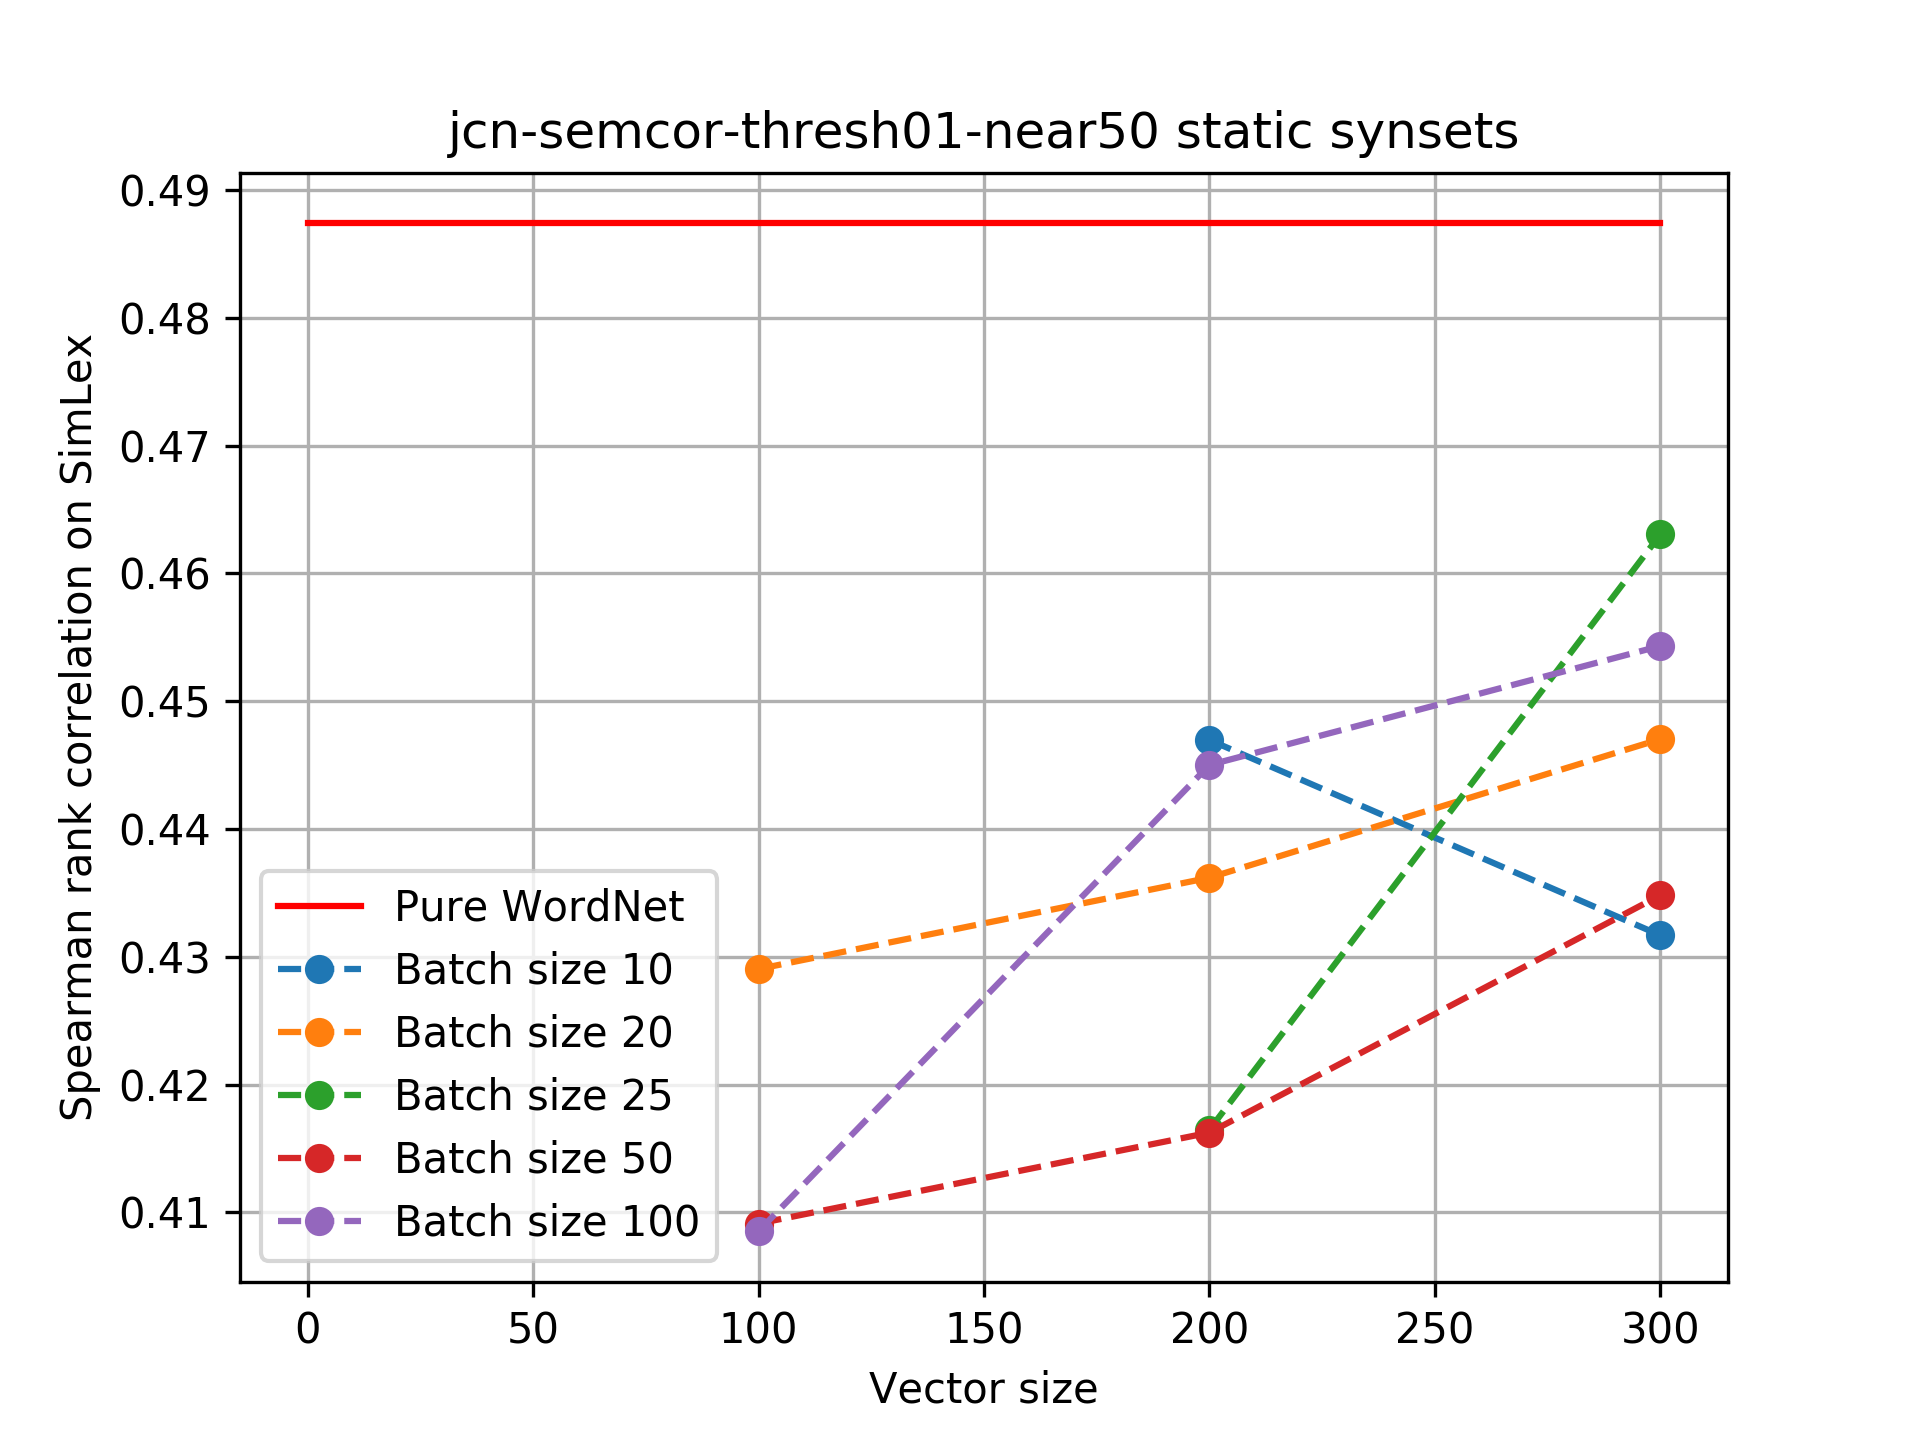
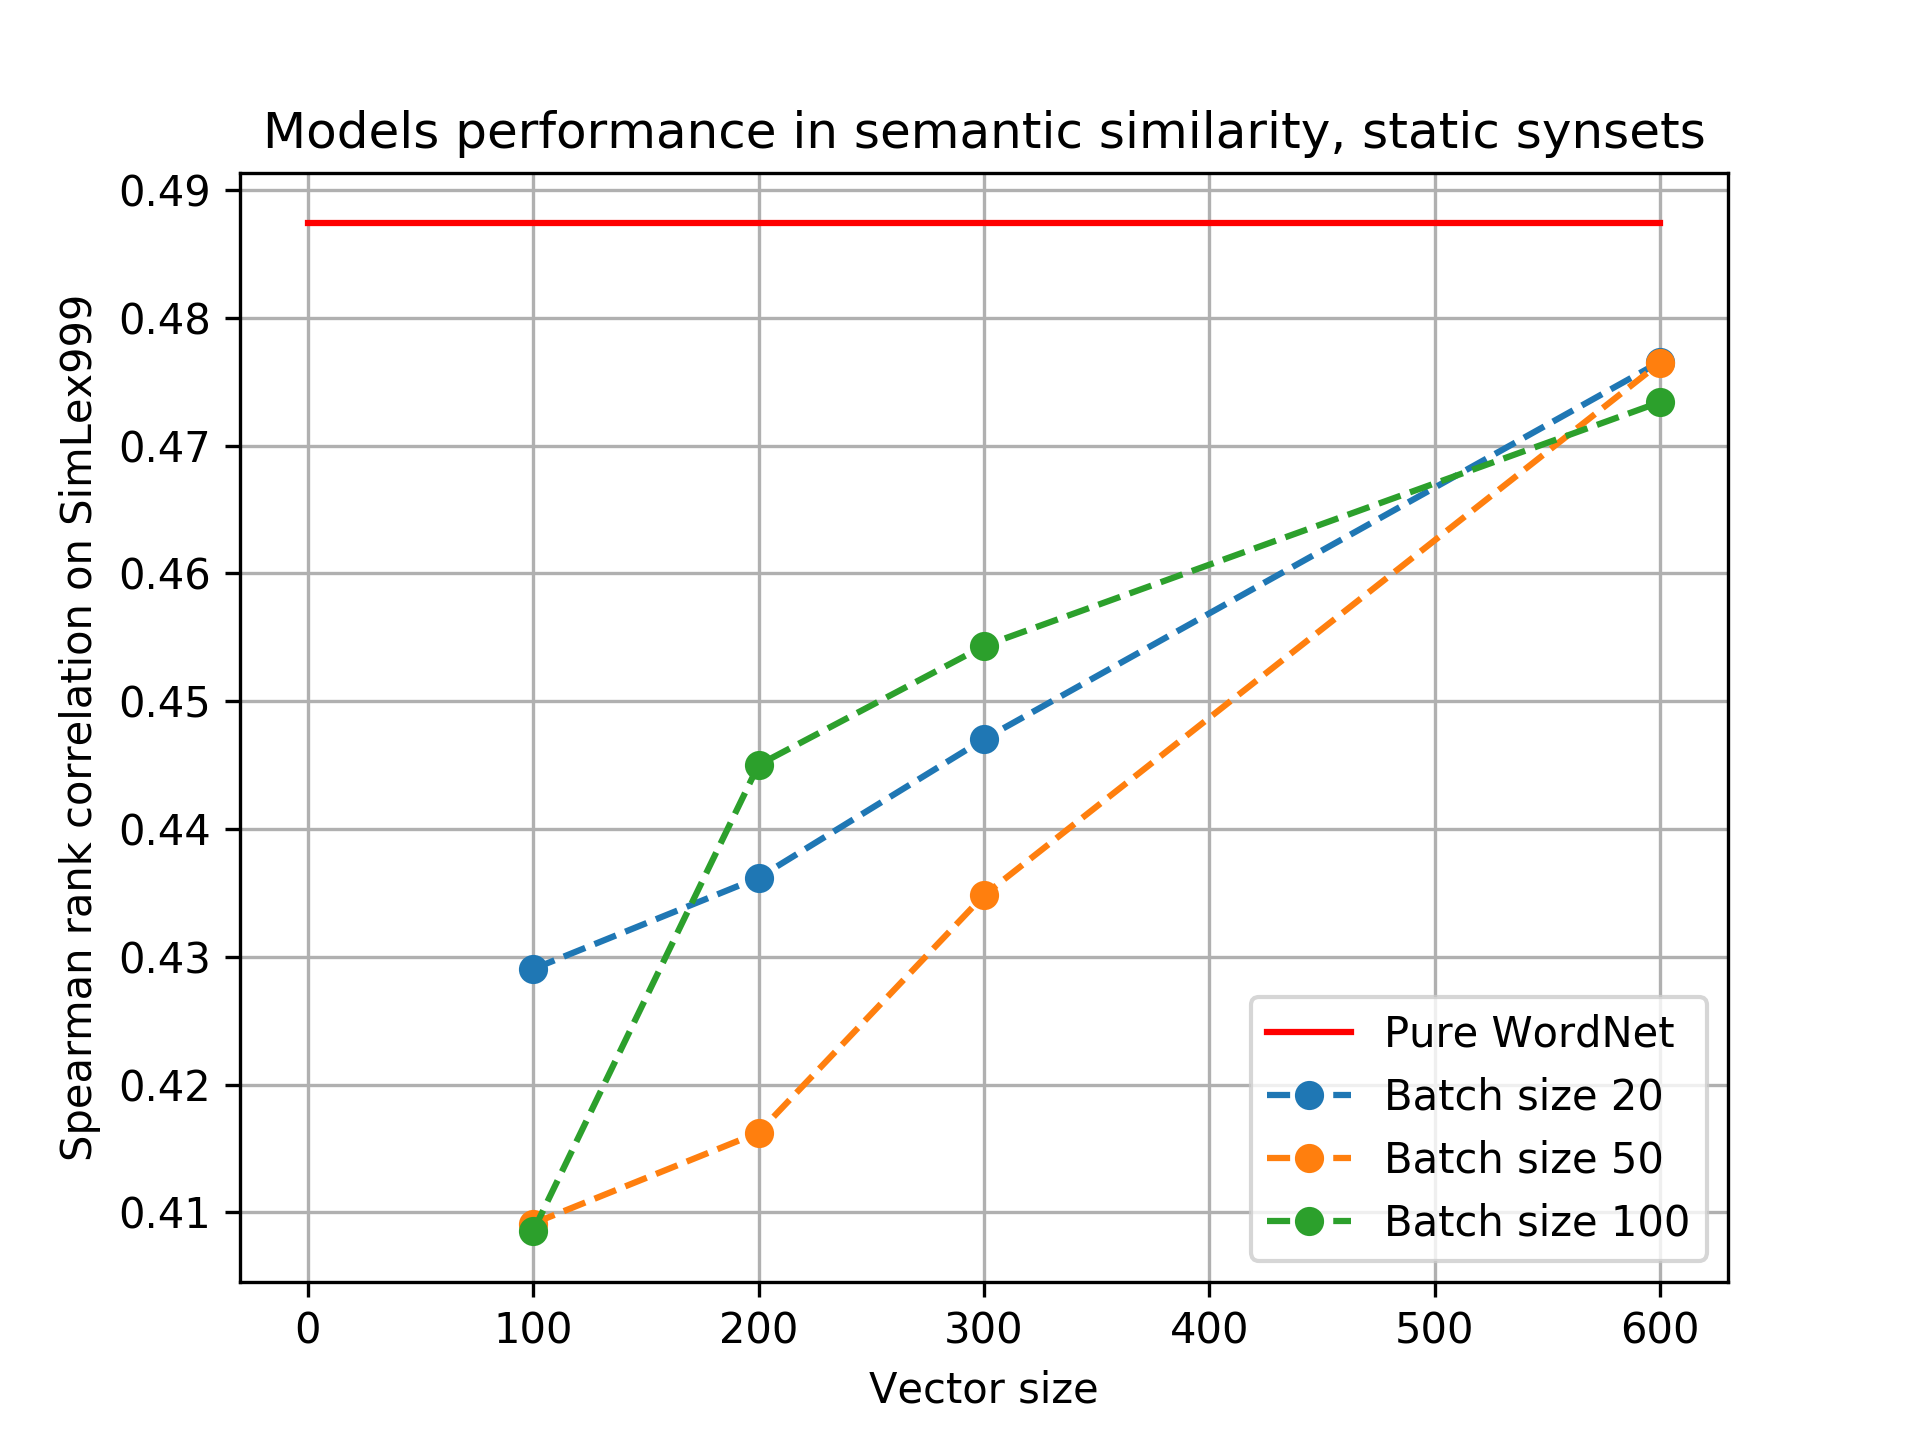
600-D plots

diff --git a/results/draw.py b/results/draw.py
@@ -20,7 +20,7 @@ for line in sys.stdin:
     (corpus, vsize, bsize, lrate, wordnet, human, dynamic_human) = res
     if lrate != '0.005':
         continue
-    if float(bsize) < 10 or float(bsize) > 400:
+    if float(bsize) < 20 or float(bsize) > 400 or float(bsize) == 25:
         continue
     lrates.append(lrate)
     vsize = float(vsize)
@@ -56,10 +56,10 @@ for batch in sorted(diff_bsizes):
     y = human_scores[batchsizes == batch]
     plt.plot(x, y, linestyle='dashed', marker='o', label='Batch size '+str(int(batch)))
 plt.xlabel('Vector size')
-plt.ylabel('Spearman rank correlation on SimLex')
+plt.ylabel('Spearman rank correlation on SimLex999')
 plt.legend(loc='best')
 plt.grid(True)
-plt.title(corpus+' static synsets')
+plt.title('Models performance in semantic similarity, static synsets')
 # plt.show()
 plt.savefig(corpus+'_static_synsets.png', dpi=300)
 plt.close()
@@ -72,10 +72,10 @@ for batch in sorted(diff_bsizes):
     y = dhuman_scores[batchsizes == batch]
     plt.plot(x, y, linestyle='dashed', marker='o', label='Batch size '+str(int(batch)))
 plt.xlabel('Vector size')
-plt.ylabel('Spearman rank correlation on SimLex (dynamic synset selection)')
+plt.ylabel('Spearman rank correlation on SimLex999')
 plt.legend(loc='best')
 plt.grid(True)
-plt.title(corpus+' dynamic synsets')
+plt.title('Models performance in semantic similarity, dynamic synsets')
 # plt.show()
 plt.savefig(corpus+'_dynamic_synsets.png', dpi=300)
 plt.close()

diff --git a/compute_paths.py b/compute_paths.py
@@ -40,7 +40,6 @@ if __name__ == '__main__':
     print('Method:', method, file=sys.stderr)
     print('Corpus:', corpus, file=sys.stderr)
     print('Cores:', cores, file=sys.stderr)
-    exit()
 
     print('Calculating total number of pairs...', file=sys.stderr)
     pairs = factorial(len(synsets)) // factorial(2) // factorial(len(synsets) - 2)
